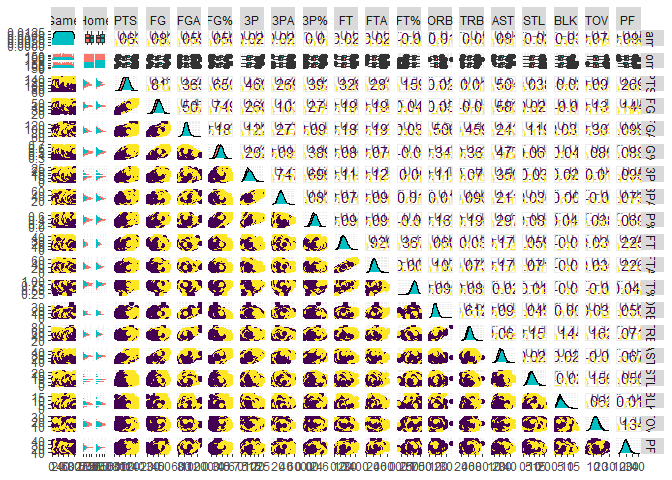
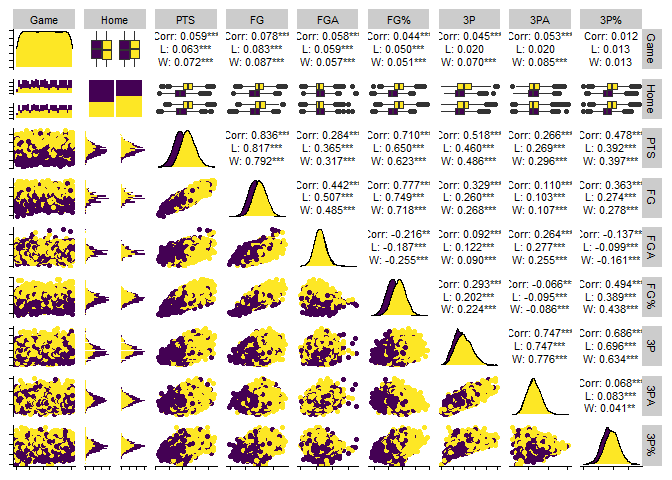
fixed theme

diff --git a/NBAStats.md b/NBAStats.md
@@ -228,19 +228,9 @@ sapply(cleandata, function(x) sum(is.na(x))) #no NAs present
     ##         0         0         0         0
 
 ``` r
-ggpairs(cleandata, columns = 2:20, aes(color = WINorLOSS)) + scale_colour_viridis_d()
+ggpairs(cleandata, columns = 2:10, aes(color = WINorLOSS), upper = list(continuous = wrap("cor", size=3, color="black")))+theme_cowplot()+scale_fill_viridis_d()+scale_color_viridis_d()+theme(text = element_text(size = 10),axis.text =element_blank())
 ```
 
-    ## `stat_bin()` using `bins = 30`. Pick better value with `binwidth`.
-    ## `stat_bin()` using `bins = 30`. Pick better value with `binwidth`.
-    ## `stat_bin()` using `bins = 30`. Pick better value with `binwidth`.
-    ## `stat_bin()` using `bins = 30`. Pick better value with `binwidth`.
-    ## `stat_bin()` using `bins = 30`. Pick better value with `binwidth`.
-    ## `stat_bin()` using `bins = 30`. Pick better value with `binwidth`.
-    ## `stat_bin()` using `bins = 30`. Pick better value with `binwidth`.
-    ## `stat_bin()` using `bins = 30`. Pick better value with `binwidth`.
-    ## `stat_bin()` using `bins = 30`. Pick better value with `binwidth`.
-    ## `stat_bin()` using `bins = 30`. Pick better value with `binwidth`.
     ## `stat_bin()` using `bins = 30`. Pick better value with `binwidth`.
     ## `stat_bin()` using `bins = 30`. Pick better value with `binwidth`.
     ## `stat_bin()` using `bins = 30`. Pick better value with `binwidth`.
@@ -253,9 +243,10 @@ ggpairs(cleandata, columns = 2:20, aes(color = WINorLOSS)) + scale_colour_viridi
 ![](NBAStats_files/figure-markdown_github/wrangling%20and%20corr%20mat-2.png)
 
 ``` r
-#ggpairs(cleandata, columns = 11:20, aes(color = WINorLOSS))
+ggpairs(cleandata, columns = 11:20, aes(color = WINorLOSS), upper = list(continuous = wrap("cor", size=3, color = "black"))) + scale_color_viridis_d()+scale_fill_viridis_d()+theme_cowplot()+theme(text = element_text(size = 10),axis.text =element_blank())
 ```
 
+![](NBAStats_files/figure-markdown_github/wrangling%20and%20corr%20mat-3.png)
 There is a separation between home and away also for team points, field
 goals, field goal %, 3 point shots and 3 point shot % to a lesser
 extent, total rebounds, assists, and turnovers
